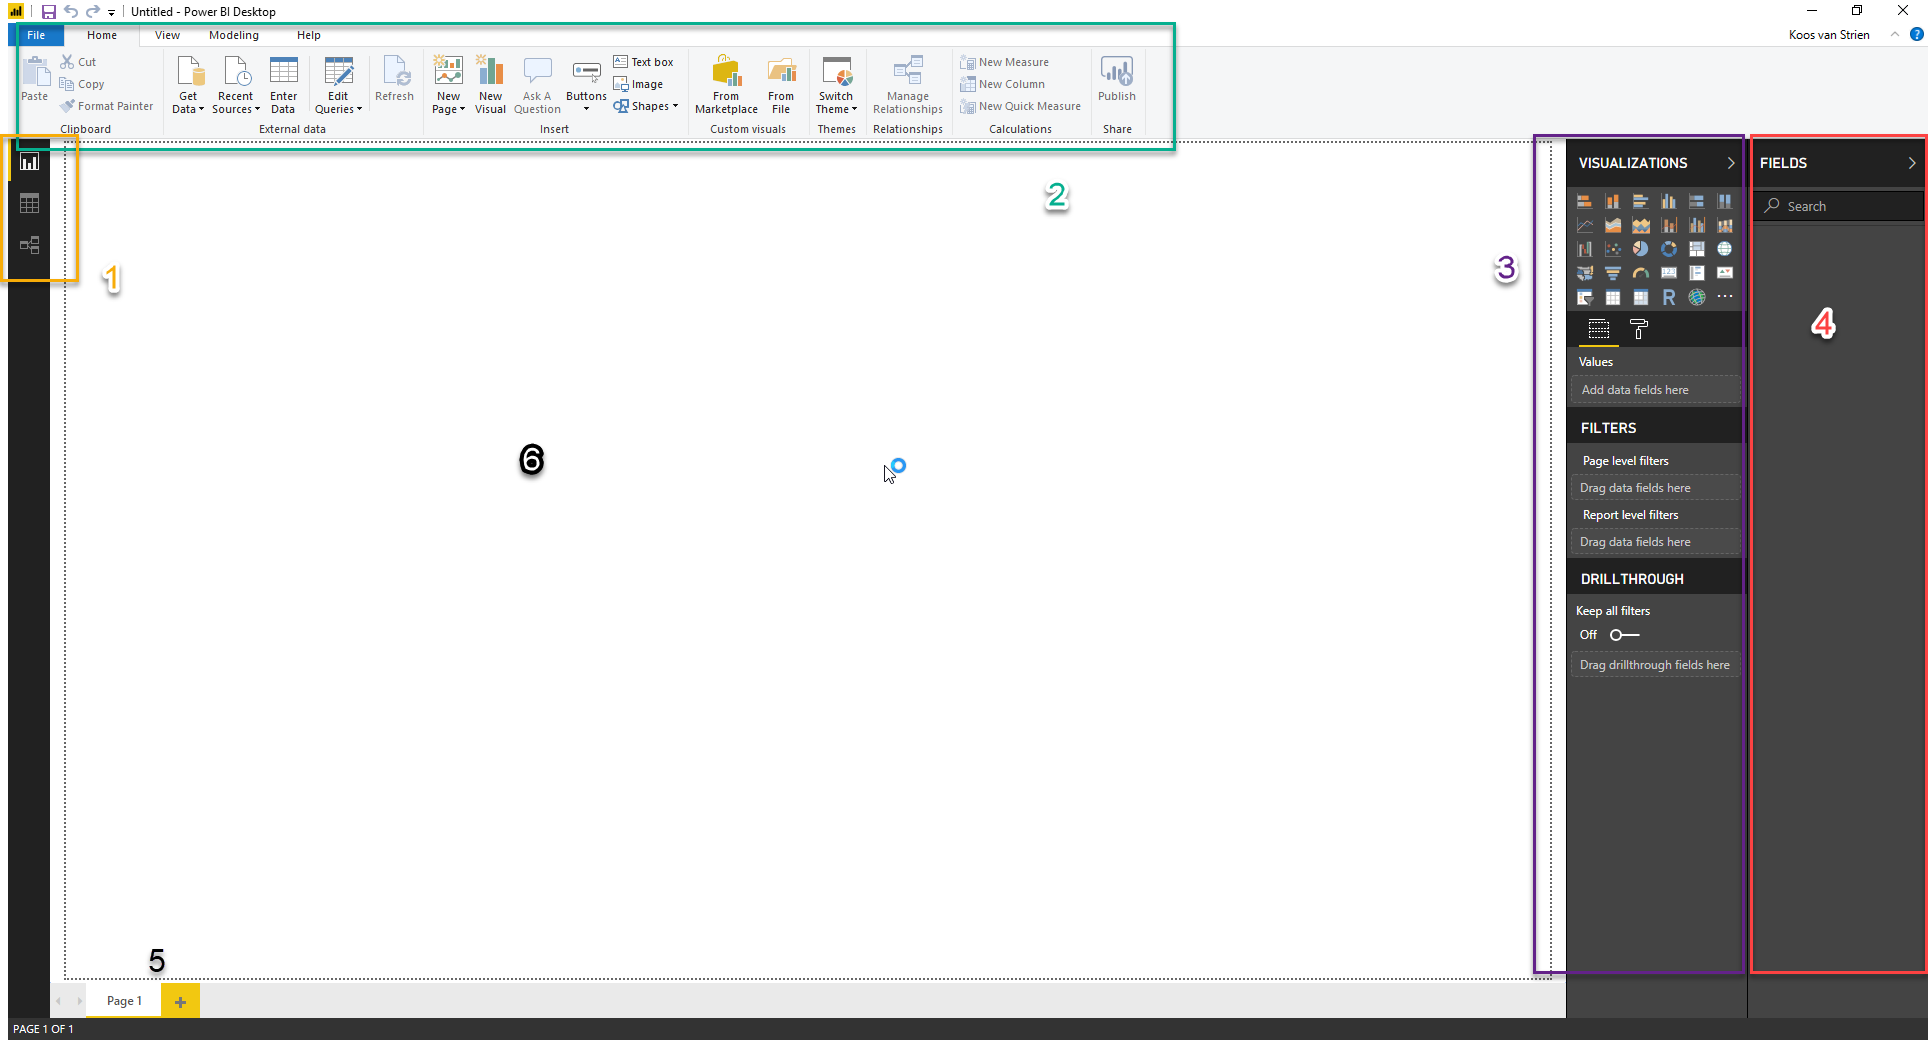
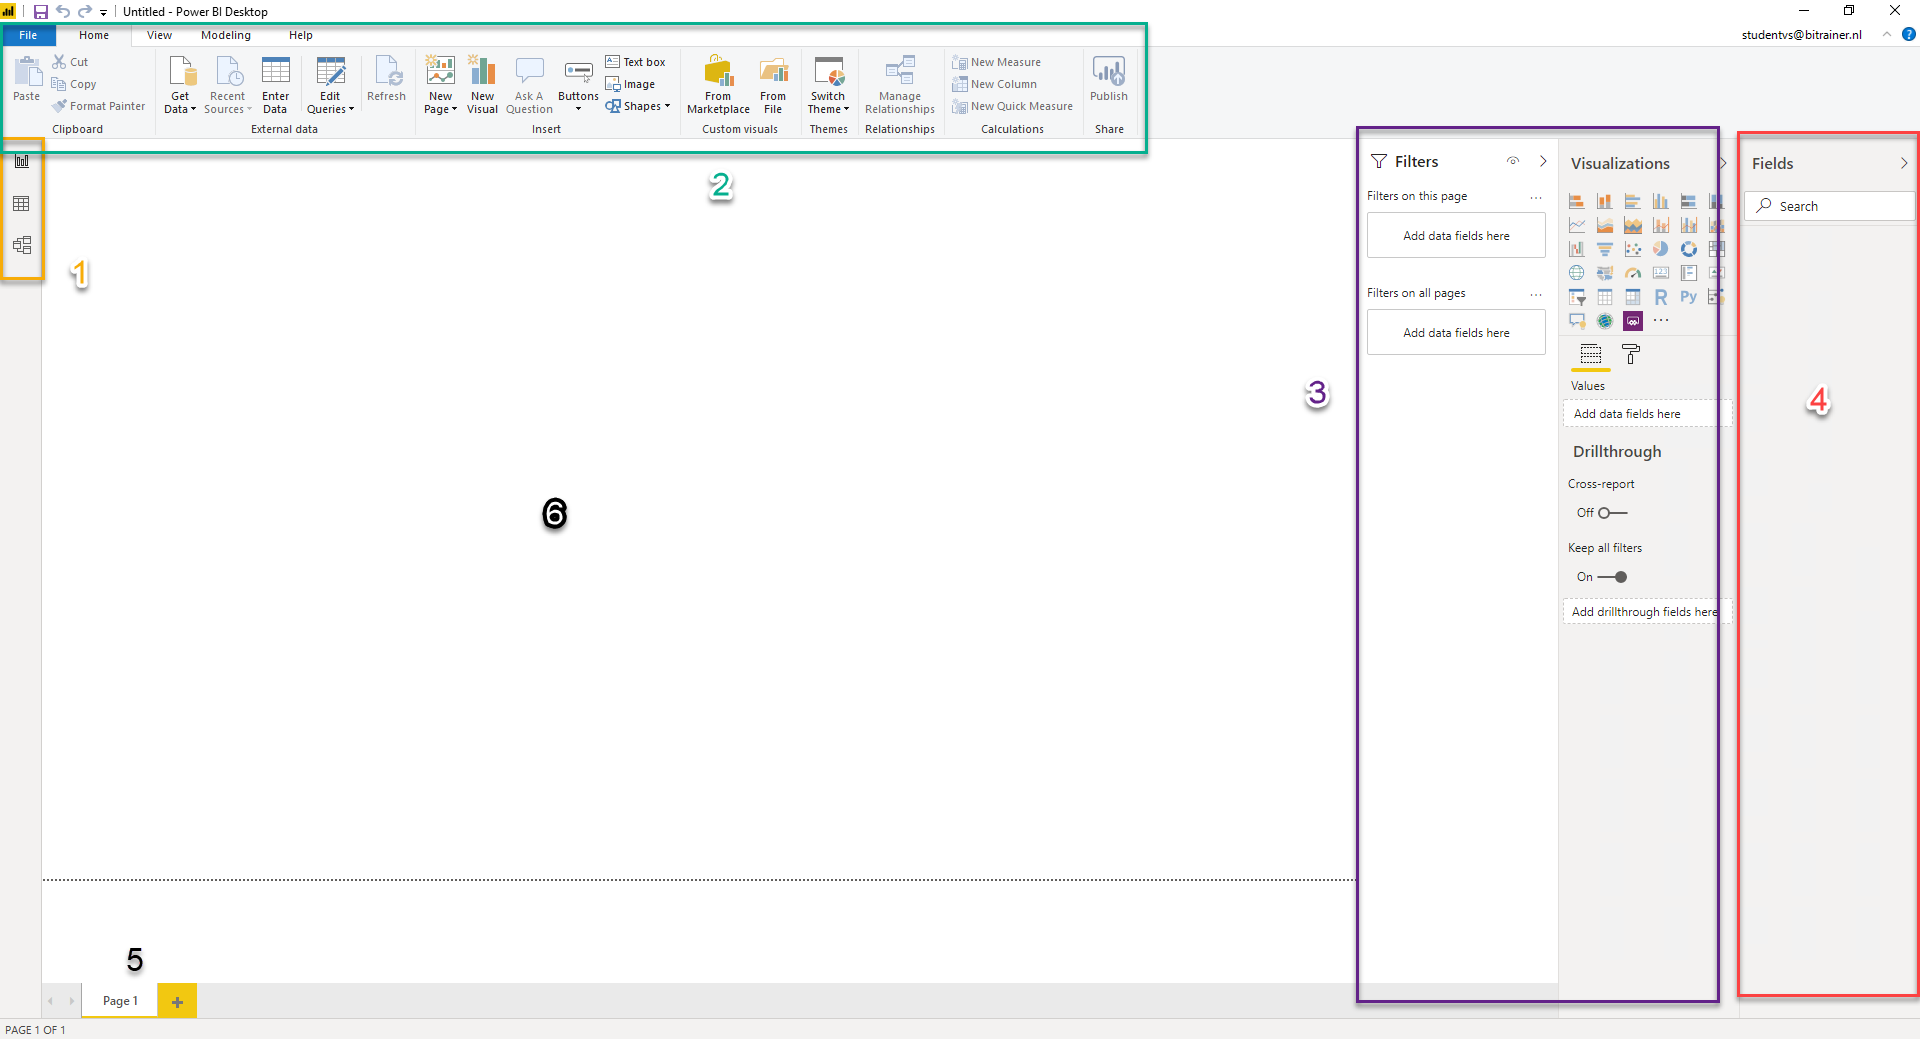
Modules 1 + 2 herzien voor meest recente versie Power BI

diff --git a/02-Reporting-on-Cube-Data/02-reporting-on-cube-data.md b/02-Reporting-on-Cube-Data/02-reporting-on-cube-data.md
@@ -9,22 +9,29 @@ Maak binnen Power BI verbinding met Analysis Services:
 * Klik "Get Data"
 * Klik "Analysis Services"
 * Vul bij "Server" de volgende naam in:
-  * `asazure://westeurope.asazure.windows.net/bitrainer`
-* Verifieer dat **Connect live** geselecteerd is. Dit zorgt ervoor dat alle queries direct naar de kubus gaan, en we zelf geen data hoeven in te laden of te modelleren.
+  * `asazure://westeurope.asazure.windows.net/bitrainerpbi`
+* Verifieer dat **Connect live** geselecteerd is. Dit zorgt ervoor dat alle queries direct naar de kubus gaan, en we zelf geen data hoeven in te laden of te modelleren.  
+![Connect live to SSAS](img/connect-ssas.png)
 * Klik op **OK**
-* Log in met de volgende credentials:
-  * Username: `student@bitrainer.nl`
-  * Password: `BITrainer.nl`
-* Selecteer nu de kubus **Model**. Aan de rechterzijde zie je een lijst met dimensies en measures die beschikbaar zijn in deze kubus.
+* Log in met je BITrainer.nl-account
+* Selecteer nu de database **adventureworks**, kubus **Model**. Aan de rechterzijde zie je een lijst met dimensies en measures die beschikbaar zijn in deze kubus.
 * Klik op **OK**
 
 ![Selecteer model vanuit Azure Analysis Services](img/SelectModelFromAAS.png)
+
+> ## De casus
+>
+> In deze cursus kijken we naar een fictief bedrijf dat Microsoft vaak gebruikt heeft als voorbeeld in haar cursussen: **AdventureWorks**.
+>
+> AdventureWorks verkoopt fietsen en fietsonderdelen - zowel direct aan klanten als via distributeurs. Ze hebben een kantoor in Nederland, en verkopen fietsen in de V.S., Duitsland en Spanje - zowel via de diverse distributeurs als direct via de website aan klanten.
 
 ## Eerste visualisatie
 
 Doordat we ingeprikt hebben op een bestaande kubus, kunnen we gebruikmaken van kwalitatief hoogstaande data. Vaak is deze al gecontroleerd op missende waarden, inconsistentie en andere zaken waar we vaak tegenaan lopen wanneer we zelf data inladen. Ook is in het datamodel aangegeven hoe de verschillende relaties tussen de tabellen liggen, en zijn er meestal *measures* aangemaakt waarin berekeningen "klaarstaan" die voor onszelf vaak lastiger zijn. We kunnen dus eenvoudig data uit meerdere tabellen combineren - de kubus zorgt voor de juiste interacties.
 
-We gaan nu twee Power BI visualsiaties maken:
+In deze eerste verkenning gaan we eens wat data van AdventureWorks bekijken. Specifiek kijken we naar de **Internet Total Sales** (het totaalbedrag aan verkopen via internet) en de **Internet Total Tax amt** (de hoeveelheid belasting die ze afdragen via internetverkopen). Om een gevoel te krijgen hoe de data eruit ziet, maken we hier enkele doorsnijdingen mee.
+
+We gaan nu twee Power BI visualisaties maken:
 
 * Internet Total Sales per Country Region Name
 * Internet Total Tax amt per Total Children
@@ -33,7 +40,8 @@ We gaan nu twee Power BI visualsiaties maken:
 
 Deze is redelijk eenvoudig:
 
-1. Zoek in het **Fields** pane via de zoekbox de *measure* **Internet Total Sales**. Klik deze aan.
+1. Zoek in het **Fields** pane via de zoekbox de *measure* **Internet Total Sales**. Klik deze aan.  
+![Search box for fields in Power BI](img/internet-total-sales-searchbox.png)
 2. Zoek nu naar "Country", en vink **Country Region Name** aan.
 
 Zoals je ziet, gaat deze grafiek eigenlijk automatisch goed. En hoewel de kubus erg groot kan zijn, kun je eenvoudig zoeken in de lijst met velden.
@@ -45,6 +53,8 @@ Zoals je ziet, gaat deze grafiek eigenlijk automatisch goed. En hoewel de kubus 
 ![Total Children verkeerd weergegeven](img/01-total-children-wrong.png)
 
 Omdat *Total Children* een numerieke waarde is, maakt Power BI hier automatisch een zogenaamde *measure* van: een meetwaarde die optelbaar is. Je ziet dus de som van alle kinderen van alle klanten nu weergegeven naast de betaalde belasting. Wanneer je het sigma-teken &Sigma; ziet staan voor een veld, is dit een indicatie dat Power BI het als *measure* kan gebruiken (hoewel de kubus het niet expliciet als *measure* heeft aangeboden!)
+
+![Het sigma-teken duidt een *measure* aan](img/01b-measure-sign.png)
 
 4. Zorg er nu voor dat de grafiek die je zojuist gemaakt hebt geselecteerd is.
 5. Verplaats nu in de **Eigenschappen** van de grafiek (onder de **visualizations** pane) het veld **Total Children** van het kopje **Value** naar **Axis**.
@@ -77,13 +87,15 @@ Klik op één van de landen in de eerste grafiek. Zoals je ziet verandert de and
 
 ## Hands-on: rapportage maken
 
-Hieronder staan op een iets hoger niveau de stappen om een rapport te maken. Wanneer je er niet uitkomt: even vragen! Het niveau is hier bewust wat hoger, om je ervaring met de tool te vergroten.
+Aangezien Power BI nieuw is binnen Adventure Works, is je leidinggevende bijzonder benieuwd wat er allemaal mee mogelijk is. Hij heeft onder andere veel gehoord over de geografische weergaves die er standaard in aanwezig zijn, en heeft jou gevraagd eens één en ander mee uit te proberen.
 
-9. Maak een nieuwe tab, genaamd 'Product Sales'
-10. Schakel naar deze nieuwe tab
-11. Maak een grafiek waarin je de **Internet Total Sales** uitzet tegenover **Product Subcategory Name**
+Hieronder staan op een iets hoger niveau de stappen om een rapport te maken. Dit is bewust (zodat je ervaring met de tool vergroot wordt) - maar tegelijkertijd is het heel normaal dat je ergens niet uitkomt. Dan helpt het niet om lang te zitten tobben - vraag gerust om hulp!
+
+9. Maak een nieuwe pagina, genaamd 'Product Sales'
+10. Schakel naar deze nieuwe pagina
+11. Maak een grafiek waarin je de **Internet Total Sales** uitzet tegenover **Product Subcategory Name** (*neem deze uit de dimensie Product Subcategory*!)
 12. Selecteer deze grafiek.
-13. Verander de **Visual level filter** voor **Product Subcategory Name** in een **Top N** filter
+13. Verander de **Filter on this visual** voor **Product Subcategory Name** in een **Top N** filter
 
 ![Top N filtering](img/08-top-n-filter.png)
 
@@ -102,8 +114,13 @@ Hieronder staan op een iets hoger niveau de stappen om een rapport te maken. Wan
    * **Internet Total Sales**
    * **Internet Total Margin**
    * **Internet Total Units**
-21. Zet de drie **Card** visuals strak naast elkaar direct onder de titel.
-22. Maak de pagina af met een willekeurig bedrijfslogo rechtsbovenin (je kunt hier bijvoorbeeld het AdventureWorks-logo opzoeken)
+
+> Om te ontdekken wat een **Card** visual is, zul je de namen van de tooltips moeten verkennen. De naam van een visual wordt weergegeven als *tooltip* wanneer je de cursor er enige tijd op laat rusten:
+> 
+> ![Voorbeeld van een tooltip](img/08b-tooltip.png)
+
+21. Zet de drie **Card** visuals strak naast elkaar direct onder de titel. Verklein de tekst indien nodig.
+22. Maak de pagina af met een willekeurig bedrijfslogo rechtsbovenin (je kunt hier bijvoorbeeld het AdventureWorks-logo opzoeken, of je eigen bedrijfslogo)
 
 Het eindresultaat kan er bijvoorbeeld als volgt uit zien:
 

diff --git a/01-Introduction/01-introductie-powerbi-desktop.md b/01-Introduction/01-introductie-powerbi-desktop.md
@@ -4,17 +4,17 @@
 
 ### Downloaden van Power BI
 
-Op de cursus-VM's is het programma "Power BI Desktop" reeds geïnstalleerd. Power BI Desktop is **gratis** - je kunt het dus vrij op elke Windows-machine installeren waar je maar wilt (helaas is Power BI nog niet voor de Mac beschikbaar). In dat geval kun je het downloaden vanaf de Windows Store, of vanaf [www.powerbi.com](https://powerbi.microsoft.com/nl-nl/). Wanneer het mogelijk is, installeer Power BI dan vanuit de Windows Store: dit zorgt ervoor dat je automatisch updates e.d. krijgt, en deze niet handmatig hoeft te downloaden.
+Op de cursus-VM's is het programma "Power BI Desktop" reeds geïnstalleerd. Power BI Desktop is **gratis** - je kunt het dus vrij op elke Windows-machine installeren waar je maar wilt. In dat geval kun je het downloaden vanaf de Windows Store, of vanaf [www.powerbi.com](https://powerbi.microsoft.com/nl-nl/). Wanneer het mogelijk is, installeer Power BI dan vanuit de Windows Store: dit zorgt ervoor dat je automatisch updates e.d. krijgt, en deze niet handmatig hoeft te downloaden.
 
 ### De eerste start
 
 De eerste keer dat je Power BI start zie je het volgende scherm:
 
-![Registration form](img/sign-in-powerbi.png).
+![Registration form](img/sign-in-powerbi.png)
 
-Klik op de link "Already have a Power BI account? Sign in" onderin het venster. Je kunt hier inloggen met je TMG-account.
+Klik op de link "Already have a Power BI account? Sign in" onderin het venster. Je kunt hier inloggen met je BI Trainer-account.
 
-(Het zou kunnen dat Power BI aangeeft dat je je hier voor moet registreren - doe dit dan. Als je dit proces in de browser volledig doorlopen hebt, kun je binnen enkele minuten met je TMG-account inloggen bij Power BI Desktop).
+Waarschijnlijk heb je nog niet automatisch een Power BI account. Je kunt met de knop **Sign up for Power BI** dit eenvoudig regelen. Als je dit proces in de browser volledig doorlopen hebt, kun je direct met je BITrainer.nl-account inloggen bij Power BI Desktop.
 
 Het scherm ziet er nu als volgt uit:
 
@@ -23,22 +23,24 @@ Het scherm ziet er nu als volgt uit:
 Merk de volgende zaken op:
 
 1. Linksboven zie je drie knoppen, waarmee je tussen *drie weergaven* van je Power BI model kunt schakelen:
-   * *Report*
-   * *Data*
-   * *Relationships*
-2. Bovenin zie je een *ribbon* (of "lint"), die net werkt als in Office kent. De lint heeft vijf onderdelen:
-   * *File* (menu): Vergelijkbaar met het gelijknamige menu uit Office: opslaan, exporteren, printen en instellingen.
-   * *Home*: Hier staan de meeste "basis" zaken die je nodig hebt voor het maken van Power BI-rapportages.
-   * *View*: Hier kun je visuele hulpmiddelen aan- en uitzetten, en schakelen tussen de mobiele weergave en de desktop-weergave
-   * *Modeling*: Hier staan specifieke zaken voor het inrichten van je datamodel
-   * *Help*: Dit is een bijzonder ingewikkeld concept, dat voor nu te ver reikt om uit te leggen ;-).
-3. Aan de rechterzijde (paars omlijnd hierboven) zie je het *Visualizations* _pane_. Deze kun je inklappen door op "Visualizations" te klikken (try!). Er zijn drie onderdelen in dit _pane_:
-   * *Visualizations*: De verschillende visualisaties die je in een rapport kunt gebruiken
-   * *Filters*: filters die van toepassing zijn op het huidige rapport, de huidige pagina, of de huidige visual
-   * *Drilltrough*: Bijzondere drillthrough-filters (meer hierover later)
-4. Uiterst rechts op het scherm (rood omrand) is het *Fields* pane). Ook deze kun je inklappen. Hier zie je een lijst van alle tabellen, kolommen en measures die in je datamodel aanwezig zijn
-5. Binnen de Report-weergave, zie je onderin de verschillende *pagina's* van een rapport
-6. Binnen de Report-weergave is een groot wit vel aanwezig. Hierop kun je je rapport vormgeven. De zwarte stippellijnen geven de randen aan.
+   * **Report**
+   * **Data**
+   * **Model**
+2. Bovenin zie je een **ribbon** (of "lint"), die net werkt als in Office kent. De lint heeft vijf onderdelen:
+   * **File** (menu): Vergelijkbaar met het gelijknamige menu uit Office: opslaan, exporteren, printen en instellingen
+   * **Home**: Hier staan de meeste "basis" zaken die je nodig hebt voor het maken van Power BI-rapportages
+   * **View**: Hier kun je visuele hulpmiddelen aan- en uitzetten, en schakelen tussen de mobiele weergave en de desktop-weergave
+   * **Modeling**: Hier staan specifieke zaken voor het inrichten van je datamodel
+   * **Help**: Dit is een bijzonder ingewikkeld concept, dat voor nu te ver reikt om uit te leggen ;-)
+3. Aan de rechterzijde (paars omlijnd hierboven) zie je twee _panes_: **Visualizations** en **Filters**. Deze kun je inklappen door op de titel te klikken (try!). Er zijn drie grote onderdelen benoemd:
+   * **Visualizations**: De verschillende visualisaties die je in een rapport kunt gebruiken
+   * **Fields** / **Format**: Hier zie je geen tekst van, maar dit zijn twee icoontjes waarmee je veel eigenschappen van visuals kunt instellen:  
+   ![Fields en Format icons](img/fields-format.png)
+   * **Filters**: filters die van toepassing zijn op het huidige rapport, de huidige pagina, of de huidige visual
+   * **Drilltrough**: Bijzondere drillthrough-filters (meer hierover later)
+4. Uiterst rechts op het scherm (rood omrand) is het **Fields** pane). Ook deze kun je inklappen. Hier zie je een lijst van alle tabellen, kolommen en measures die in je datamodel aanwezig zijn
+5. Binnen de Report-weergave, zie je onderin de verschillende **pagina's** van een rapport
+6. Binnen de Report-weergave is een groot wit vel aanwezig - de **canvas**. Hierop kun je je rapport vormgeven. De zwarte stippellijnen geven de randen aan.
 
 ## Volgende modules
 

diff --git a/00-Preparation/Environment.md b/00-Preparation/Environment.md
@@ -9,8 +9,31 @@ Voor de training "self-service met Power BI" zijn de volgende zaken nodig:
   * Een Power BI account
 * Per groep
   * Een AAS instance (Developer) met een gevuld sample
+  * Studenten moeten toegang krijgen met hun persoonlijke BITrainer.nl-account!
+
+az role assignment create --role Reader --assignee "studentvs@bitrainer.nl" --scope "/subscriptions/22e46556-ee7f-4060-a7dd-c92391e5f82a/resourceGroups/powerbi-training/providers/Microsoft.AnalysisServices/servers/bitrainerpbi"
+
+{
+  "create": {
+    "parentObject": {
+      "database": "adventureworks"
+    },
+    "role": {
+      "name": "Role",
+      "modelPermission": "administrator",
+      "members": [
+        {
+          "memberName": "studentvs@bitrainer.nl",
+          "identityProvider": "AzureAD"
+        }
+      ]
+    }
+  }
+}
+
 * Per cursus
-  * Cursusmateriaal op GitHub
+  * Cursusmateriaal op GitHub of gedrukt
   * Opdrachten met bijbehorende bronbestanden
 
-** BELANGRIJK ** Kijk ook even heel goed op de GitHub-pagina van de Academhy :-).
+* Op de VM moet de Advanced Security (IE ESC) uitstaan!
+* Default browser moet op Google Chrome gezet!

diff --git a/06-self-service-reporting/07-sql-inladen.md b/06-self-service-reporting/07-sql-inladen.md
@@ -43,7 +43,7 @@ Vervang nu in de rapportage de TerritoryID met de kolom "Name" uit SalesTerritor
 Laad nu de tabel "Store" vanuit de Azure SQL Database "AdventureworksLT"
 
 * server: bitrainer.database.windows.net
-* database: AdventureWorksLT-1
+* database: AdventureWorksLT
 
 Selecteer hiervoor **Database credentials**, met de volgende logingegevens:
 
